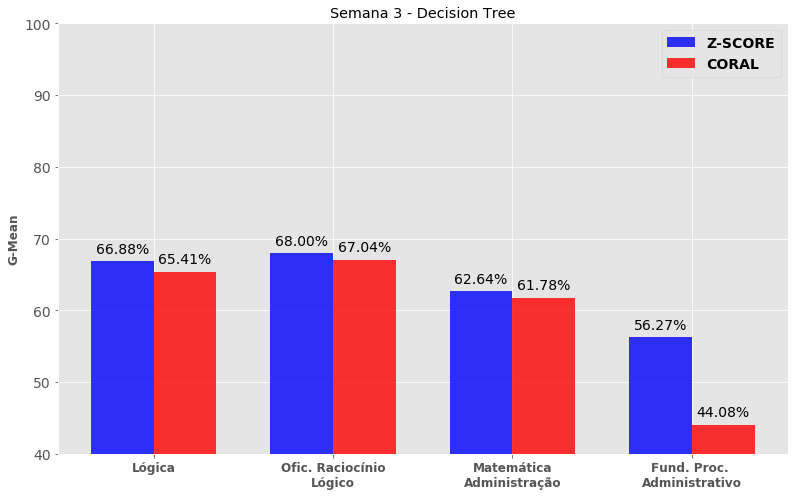
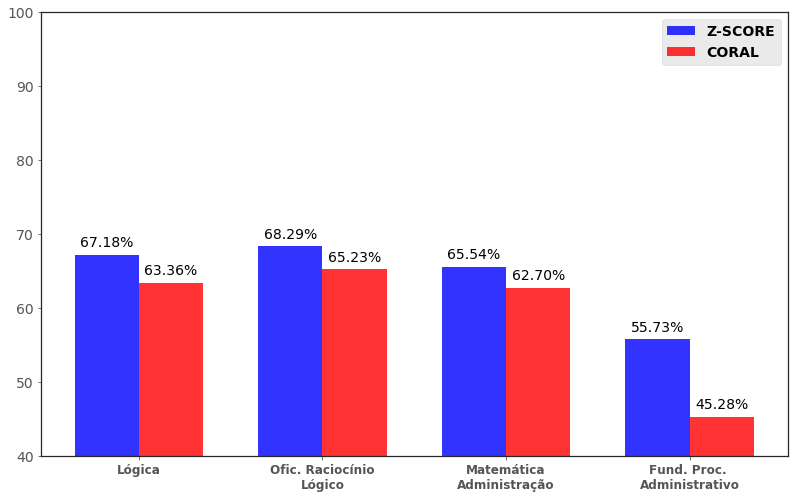
Ajuste gráficos

diff --git a/Dataset/Algoritmos/Experimento final/ml_normalizacao_novo.py b/Dataset/Algoritmos/Experimento final/ml_normalizacao_novo.py
@@ -81,7 +81,7 @@ plt.rcParams['figure.figsize'] = (11,7)
 #-------------------------------------------------------
 # Configuração de filtros para o dataset
 modulo_s = 3 #0 = ignora o módulo. Lembrando que só existem os módulos 3 e 6
-classificador = 1
+classificador = 3
 
 features = {
         50404: ['Questionario_Quantidade_Somado', 'Forum_TempoUso_Somado', 'Log_Post_Quantidade_Somado', 'Questionario_TempoUso_Somado', 'Login_Quantidade','Turno_TempoUsoTotal_Somado', 'Evadido','CodigoTurma'],
@@ -214,6 +214,9 @@ width=0.35
 opacity = 0.8
 tamFonte = 14
 
+plt.rcParams['axes.edgecolor'] = "0.15"
+plt.rcParams['axes.linewidth'] = 1.25
+
 fig = plt.figure()                                                               
 ax = fig.add_subplot(1,1,1)                                                              
 
@@ -236,9 +239,9 @@ autolabel(rects2, ax)
 
 classif_str = classificadores[classificador]
 
-plt.title('Semana {} - {}'.format(modulo_s, classif_str))
+#plt.title('Semana {} - {}'.format(modulo_s, classif_str))
 
-plt.ylabel('G-Mean', fontsize = tamFonte - 2, fontweight='bold')
+#plt.ylabel('G-Mean', fontsize = tamFonte - 2, fontweight='bold')
 
 plt.xticks(ind + width / 2,result['Disciplina'], fontsize = tamFonte - 2, fontweight='bold')
 #plt.xticklabels(result['Disciplina'])
@@ -246,8 +249,12 @@ plt.xticks(ind + width / 2,result['Disciplina'], fontsize = tamFonte - 2, fontwe
 plt.legend(prop={'size': tamFonte, 'weight': 'bold'})
 plt.tight_layout()
 
+ax.patch.set_facecolor('w')
+#ax.grid(True)
+
 axes = plt.gca()
 axes.set_ylim([40,100])
+
 plt.tick_params(axis='y', labelsize = tamFonte)
 plt.show()
 plt.savefig('gmean_m{}_{}'.format(modulo_s, classif_str))
